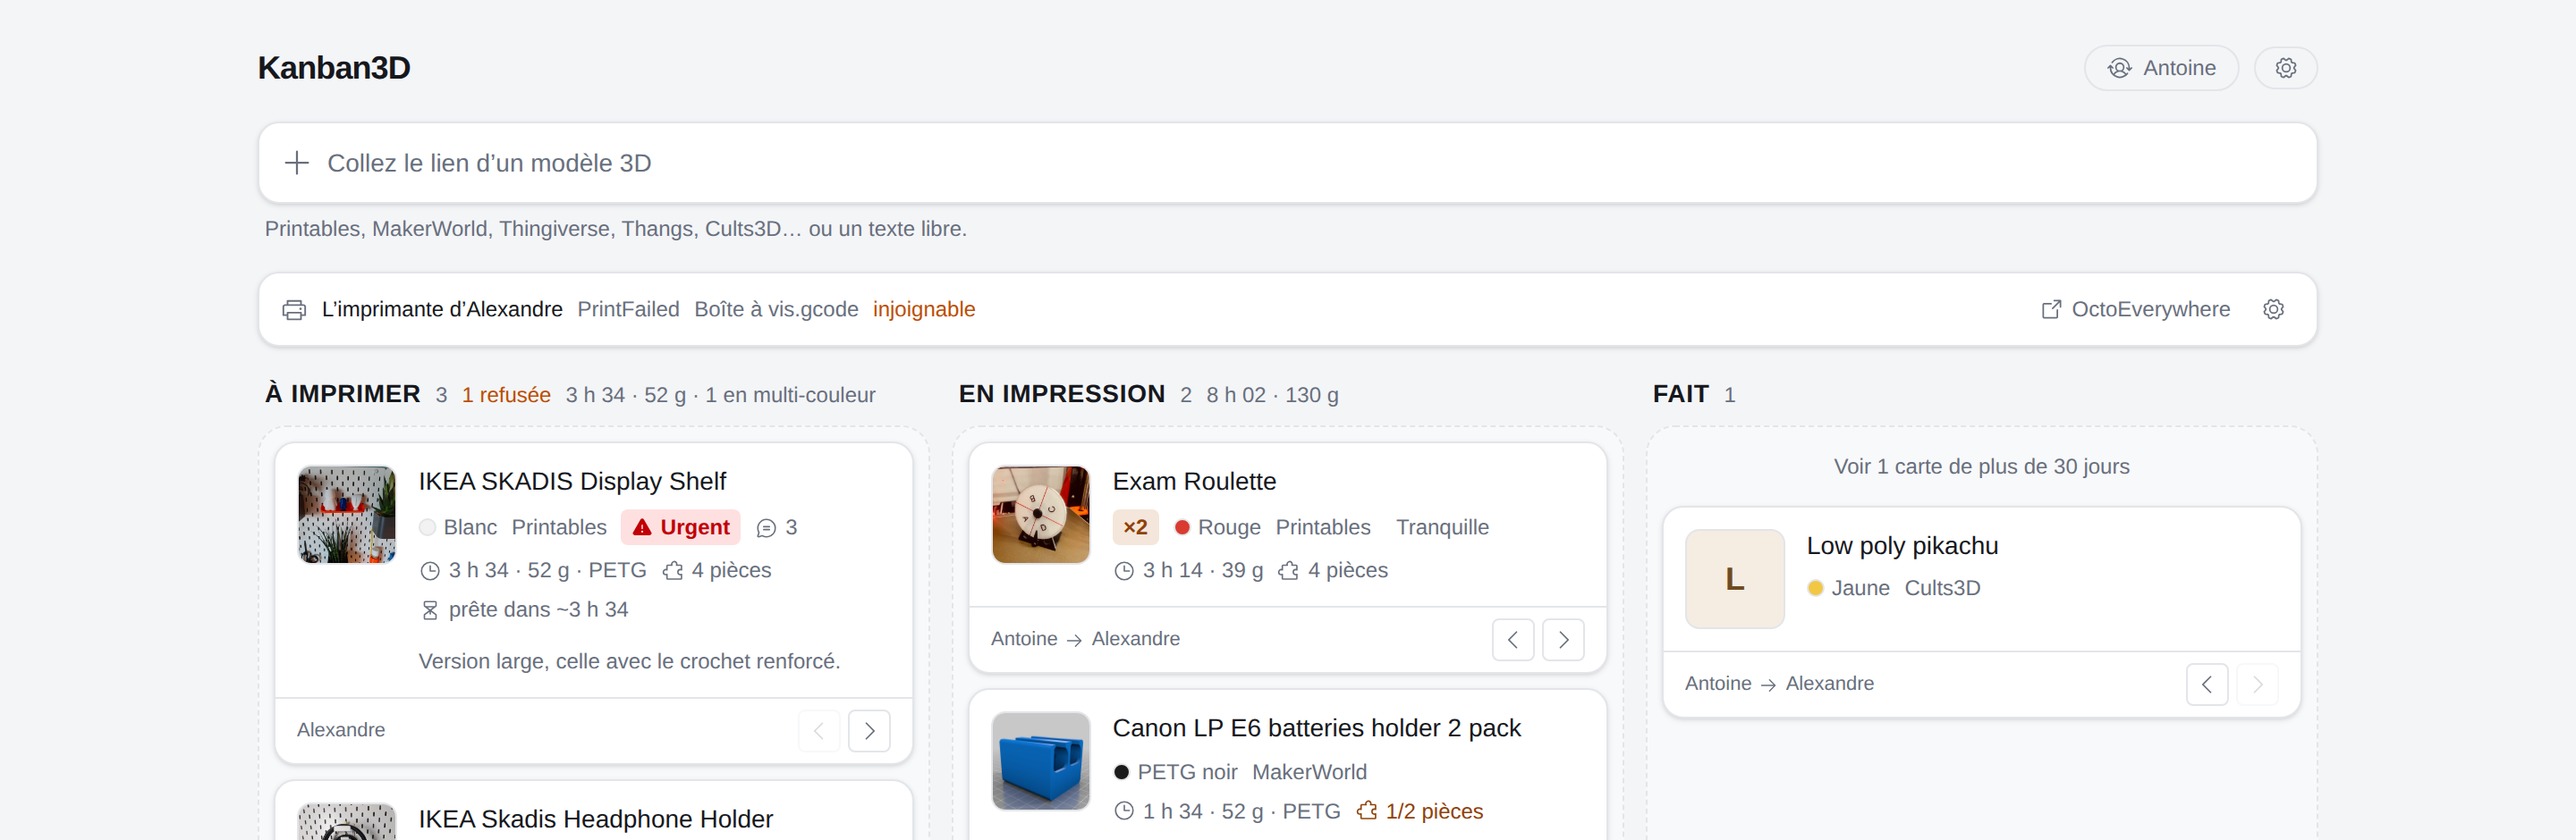
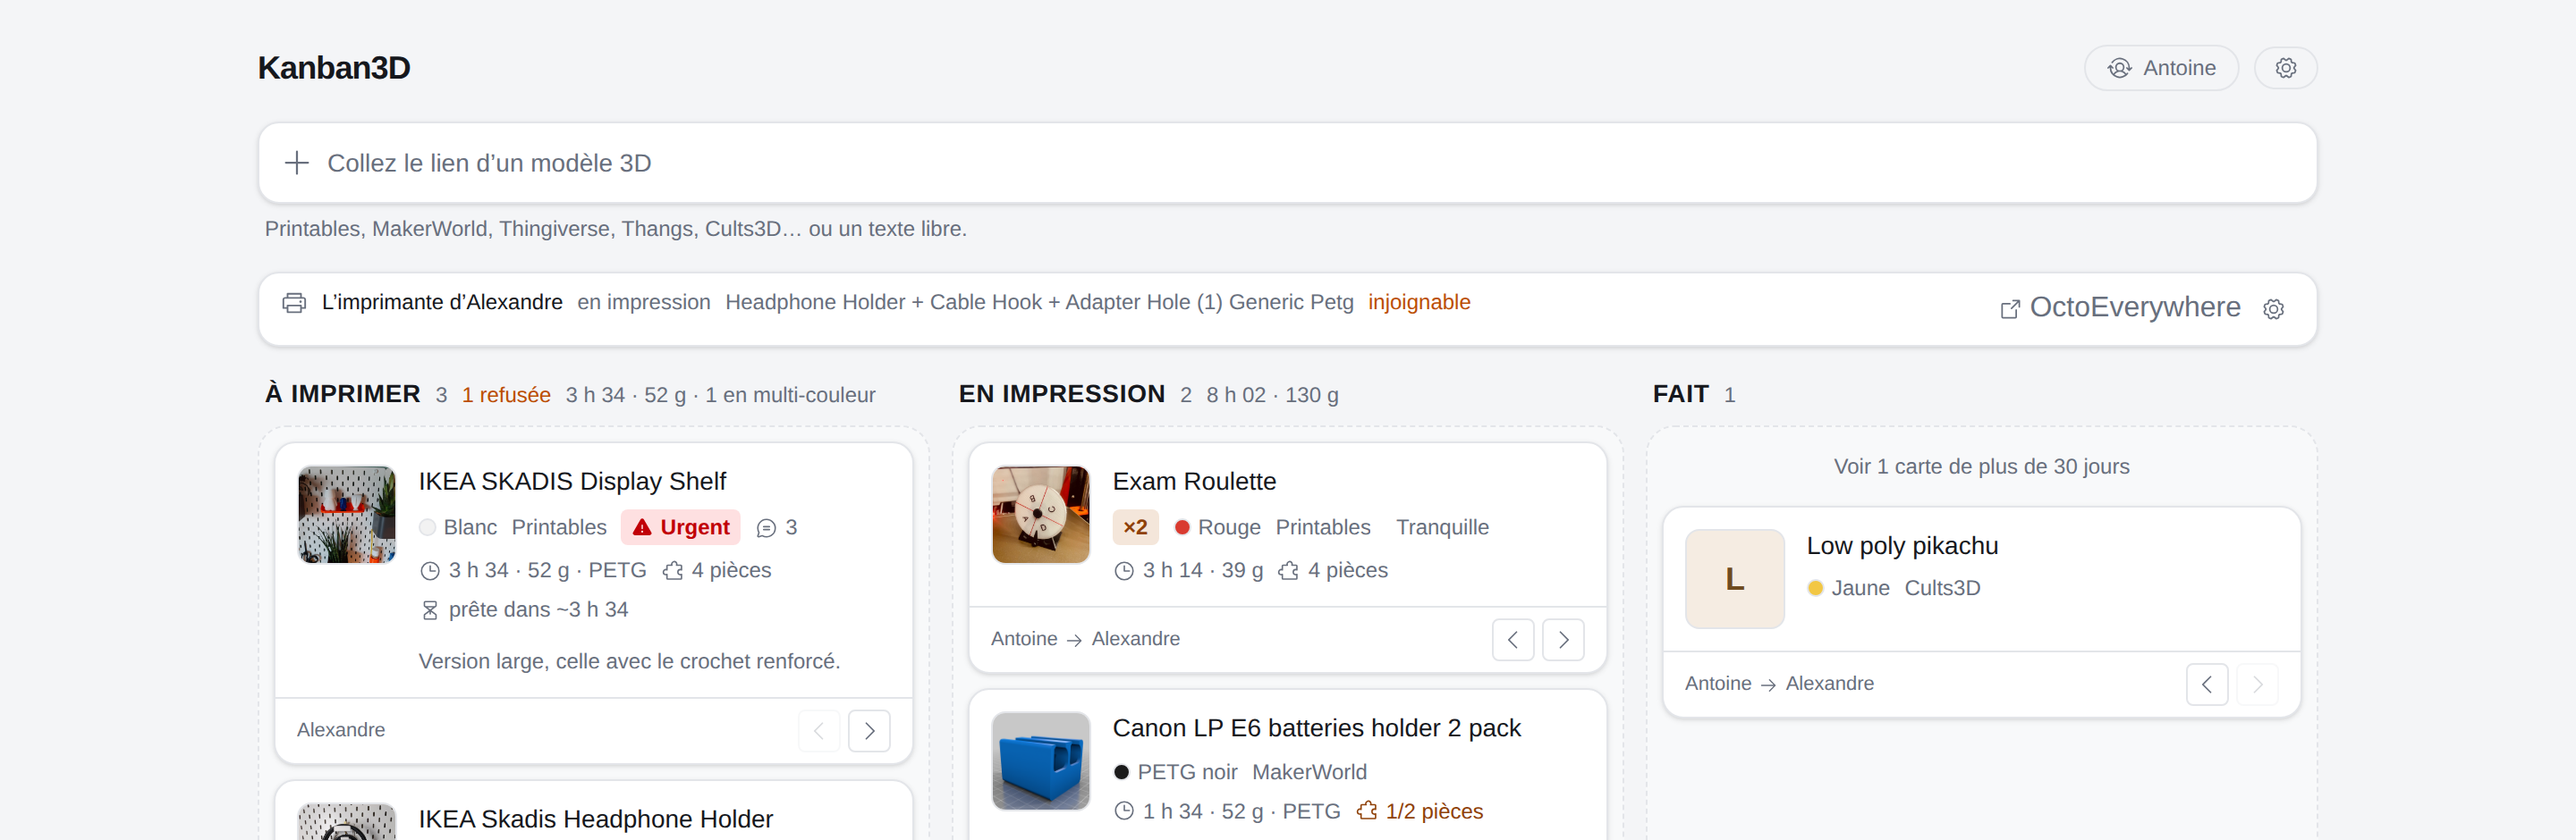
La webcam aussi sur téléphone, en portrait
Elle y était masquée (`hidden sm:block`) du temps où elle ne montrait rien :
l'aperçu d'OctoEverywhere répondait 404, donc c'était de la place perdue.
Maintenant qu'il y a une image, le téléphone en portrait est justement l'écran
depuis lequel on veut jeter un œil au plateau — un peu plus petite en portrait,
où la largeur compte.

Les deux commandes du bandeau ont dû sortir du flux de texte pour ça. Dans le
flux, elles se repliaient sur une ligne à elles dès que le texte en occupait
plusieurs — c'est-à-dire dès qu'une vignette rétrécissait la colonne — et
creusaient un vide au milieu du bandeau. Calées en haut à droite, elles rendent
aussi la version large plus lisible.

Vérifié en 375 et 393 px : la vignette s'affiche, aucun débordement horizontal,
aucune cible tactile sous 40 px, et le bandeau tient en 120 px de haut. Suites
imprimante rejouées.

Claude-Session: https://claude.ai/code/session_012JC25piikU9u2Zd7cQN5Aw

Changed region(s): [[0.0938, 0.3394, 0.5625, 0.4011], [0.7812, 0.3394, 0.875, 0.4011]]

diff --git a/src/components/PrinterStrip.tsx b/src/components/PrinterStrip.tsx
@@ -95,11 +95,6 @@ export function PrinterStrip({
   }, [onPrinting])
 
   /*
-   * La vignette se rafraîchit avec le reste. On ne la demande que pendant une
-   * impression : au repos elle montrerait un plateau vide, et interroger le NAS
-   * pour ça n'a pas de sens.
-   */
-  /*
    * Le rythme de l'aperçu fixe, du plus soutenu au plus économe. Un échec ne
    * masque la vignette que jusqu'au prochain essai : une caméra qui revient — le
    * NAS qu'on rallume — se remet à s'afficher toute seule.
@@ -227,7 +222,14 @@ export function PrinterStrip({
             }}
             data-testid="webcam"
             aria-label="Voir la webcam en direct"
-            className="hidden shrink-0 overflow-hidden rounded border border-line sm:block"
+            /*
+              Visible sur téléphone aussi. Elle y était masquée du temps où elle
+              ne montrait rien — l'aperçu d'OctoEverywhere répondait 404 — et
+              c'était donc de la place perdue. Maintenant qu'il y a une image, le
+              téléphone est justement l'écran depuis lequel on veut jeter un œil
+              au plateau. Un peu plus petite en portrait, où la largeur compte.
+            */
+            className="block shrink-0 overflow-hidden rounded border border-line"
           >
             {/* eslint-disable-next-line @next/next/no-img-element */}
             <img
@@ -235,7 +237,7 @@ export function PrinterStrip({
               alt=""
               width={96}
               height={72}
-              className="h-[54px] w-[72px] object-cover"
+              className="h-[44px] w-[59px] object-cover sm:h-[54px] sm:w-[72px]"
               onLoad={() => setÉchec(false)}
               onError={() => {
                 setSnapshot(null)
@@ -283,7 +285,15 @@ export function PrinterStrip({
               injoignable
             </span>
           )}
+        </div>
 
+        {/*
+          Les deux commandes, calées en haut à droite plutôt qu'au bout du texte.
+          Dans le flux, elles se repliaient sur une ligne à elles dès que le texte
+          en occupait plusieurs — c'est-à-dire sur un téléphone en portrait — et
+          creusaient un vide au milieu du bandeau.
+        */}
+        <div className="flex shrink-0 items-center gap-0.5">
           {/*
             Chez OctoEverywhere : leur lecteur, leur bande passante, et tout ce
             que le nôtre ne montre pas — les commandes, l'historique. Le lien
@@ -301,7 +311,7 @@ export function PrinterStrip({
                 qu'une icône de 14 px — mesurée à 22 px de large, sous le seuil
                 que le reste du tableau respecte.
               */
-              className="ml-auto inline-flex min-h-10 min-w-10 shrink-0 items-center justify-center gap-1 rounded px-1 text-muted transition-colors hover:text-accent sm:min-h-6 sm:min-w-0"
+              className="inline-flex min-h-10 min-w-10 items-center justify-center gap-1 rounded text-muted transition-colors hover:text-accent sm:min-h-6 sm:min-w-0 sm:px-1"
             >
               <IconExternalLink size={14} aria-hidden />
               <span className="hidden sm:inline">OctoEverywhere</span>
@@ -311,10 +321,7 @@ export function PrinterStrip({
           <a
             href="/reglages"
             aria-label="Réglages de l’imprimante"
-            className={[
-              'inline-flex min-h-10 min-w-10 shrink-0 items-center justify-center rounded text-muted transition-colors hover:text-accent sm:min-h-6 sm:min-w-6',
-              printer.hasSharePage ? '' : 'ml-auto',
-            ].join(' ')}
+            className="inline-flex min-h-10 min-w-10 items-center justify-center rounded text-muted transition-colors hover:text-accent sm:min-h-6 sm:min-w-6"
           >
             <IconSettings size={14} aria-hidden />
           </a>

diff --git a/docs/technique.md b/docs/technique.md
@@ -715,6 +715,14 @@ repos qu'on veut regarder le plateau ; le rythme suit — 10 s en impression, 60
 repos, 2 min après un échec, pour ne pas interroger le NAS toutes les minutes quand
 il n'y a pas de caméra.
 
+Elle n'est plus réservée aux grands écrans non plus. Elle y était masquée
+(`hidden sm:block`) du temps où elle ne montrait rien : de la place perdue. Le
+téléphone en portrait est pourtant l'écran depuis lequel on regarde le plateau.
+Les deux commandes du bandeau ont dû sortir du flux de texte pour ça — dans le
+flux, elles se repliaient sur une ligne à elles dès que le texte en occupait
+plusieurs, et creusaient un vide au milieu du bandeau. Elles sont maintenant
+calées en haut à droite, ce qui rend aussi la version large plus lisible.
+
 ### Refuser, sans quatrième colonne
 
 `cards.declined_reason`. Une carte refusée reste où elle est, grisée, et **sort de

diff --git a/README.md b/README.md
@@ -149,10 +149,11 @@ bandeau le dit.
 
 ### Regarder l'impression
 
-Une vignette de la webcam dans le bandeau, et un clic l'ouvre **en direct** —
-la vraie vidéo, pas un diaporama. Elle est là aussi quand la machine ne travaille
-pas : en chauffe, en pause, ou simplement pour vérifier que le plateau est libre
-avant de lancer quelque chose.
+Une vignette de la webcam dans le bandeau, **y compris sur téléphone en
+portrait** — c'est justement l'écran depuis lequel on veut jeter un œil au
+plateau. Un clic l'ouvre **en direct** : la vraie vidéo, pas un diaporama. Elle
+est là aussi quand la machine ne travaille pas : en chauffe, en pause, ou
+simplement pour vérifier que le plateau est libre avant de lancer quelque chose.
 
 Un bouton mène chez OctoEverywhere pour le reste — leur lecteur, l'historique,
 les commandes.
